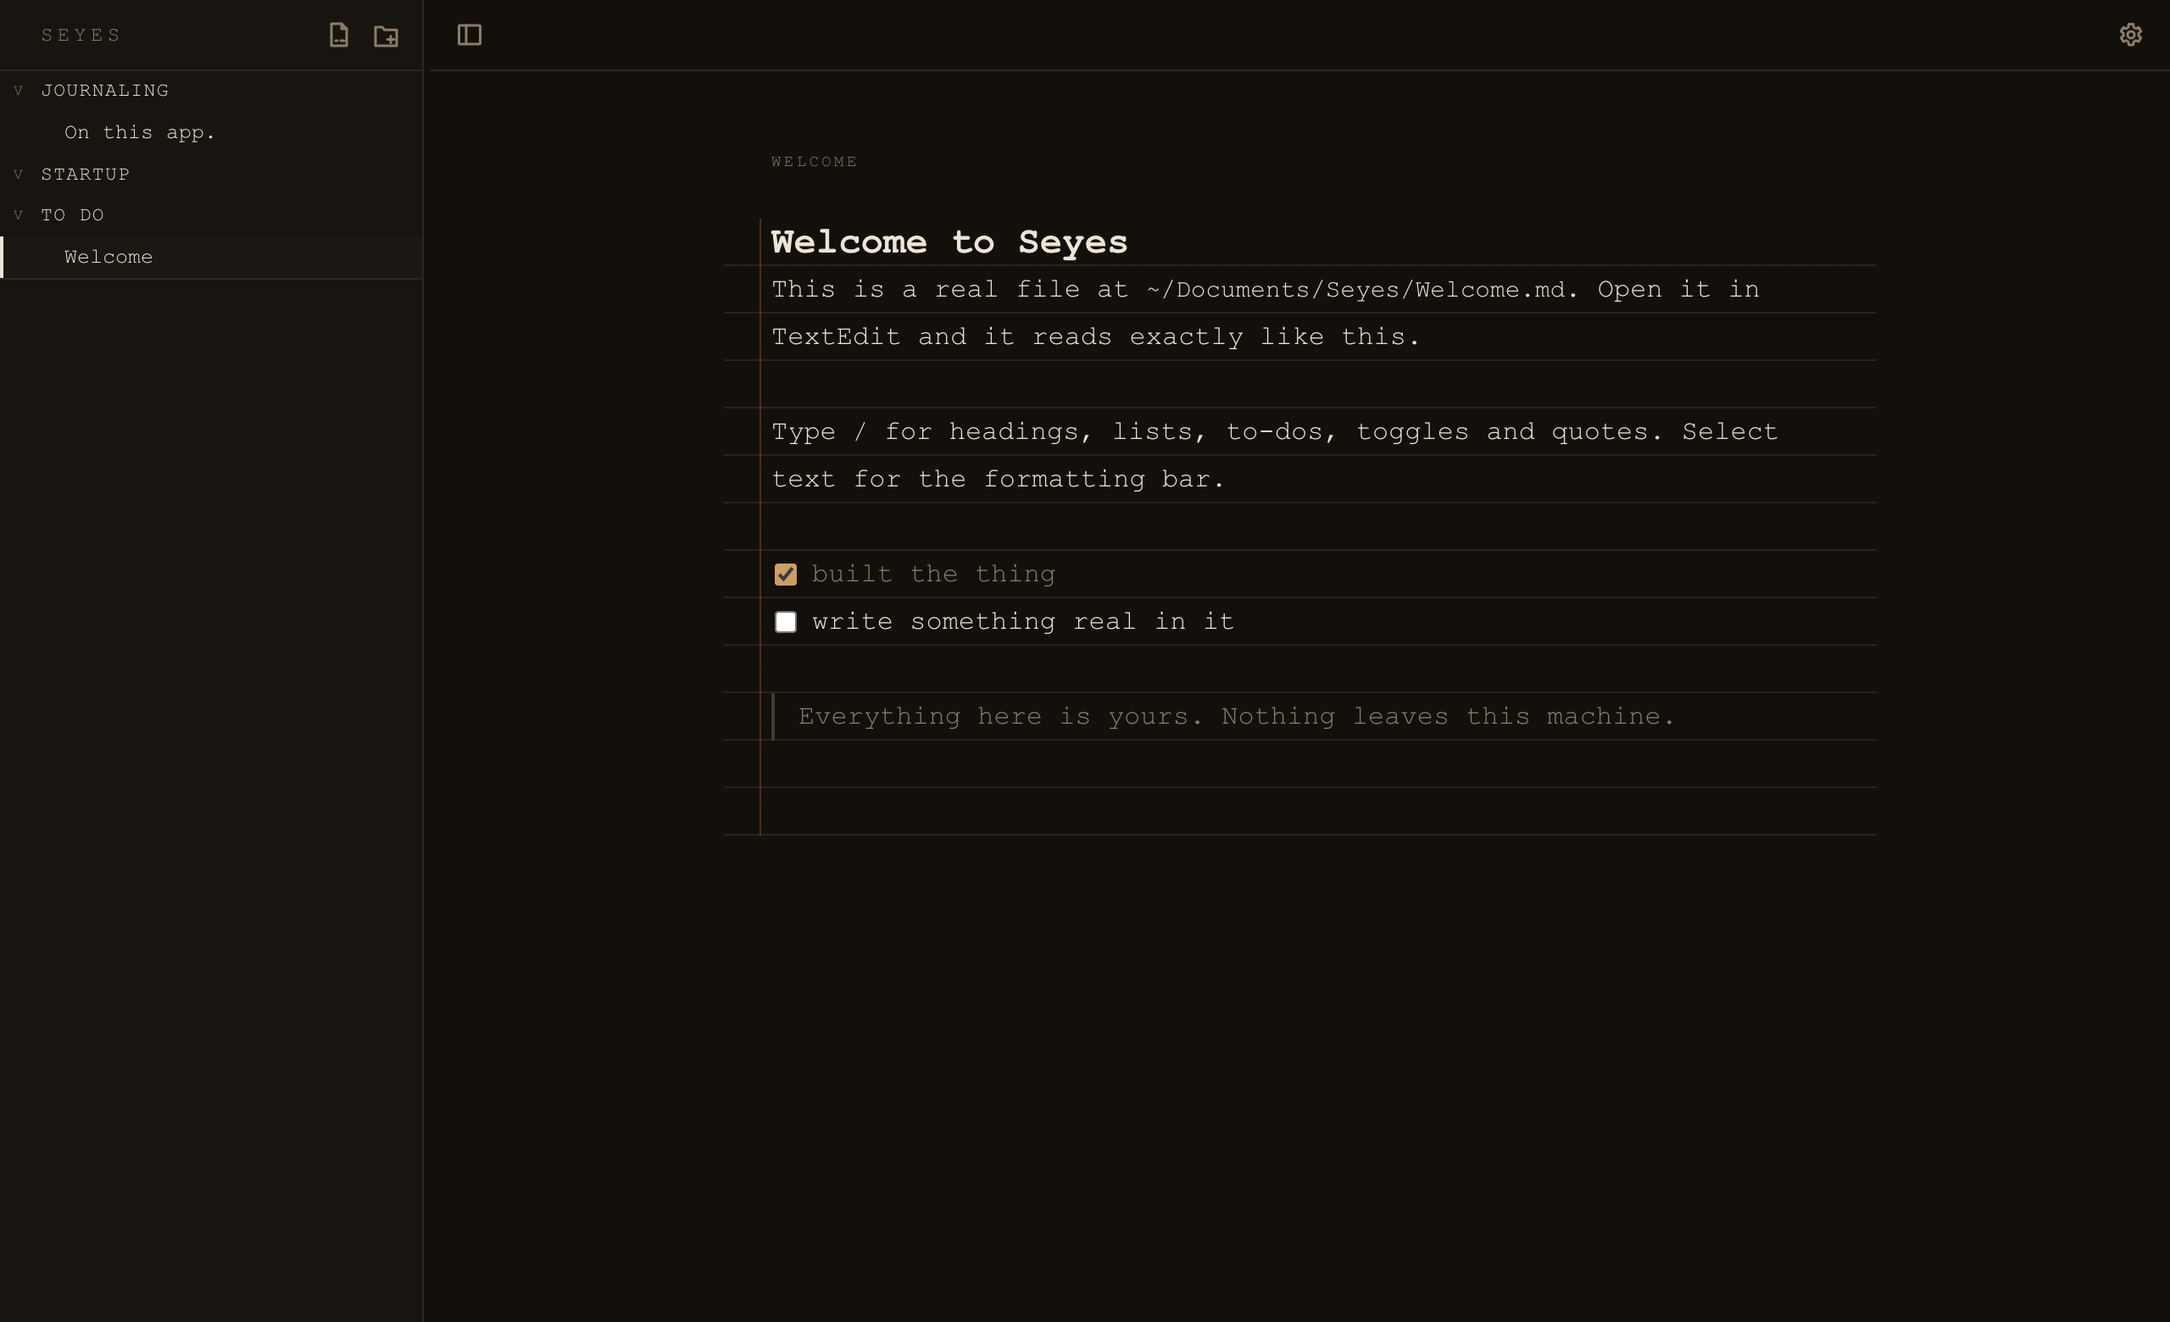
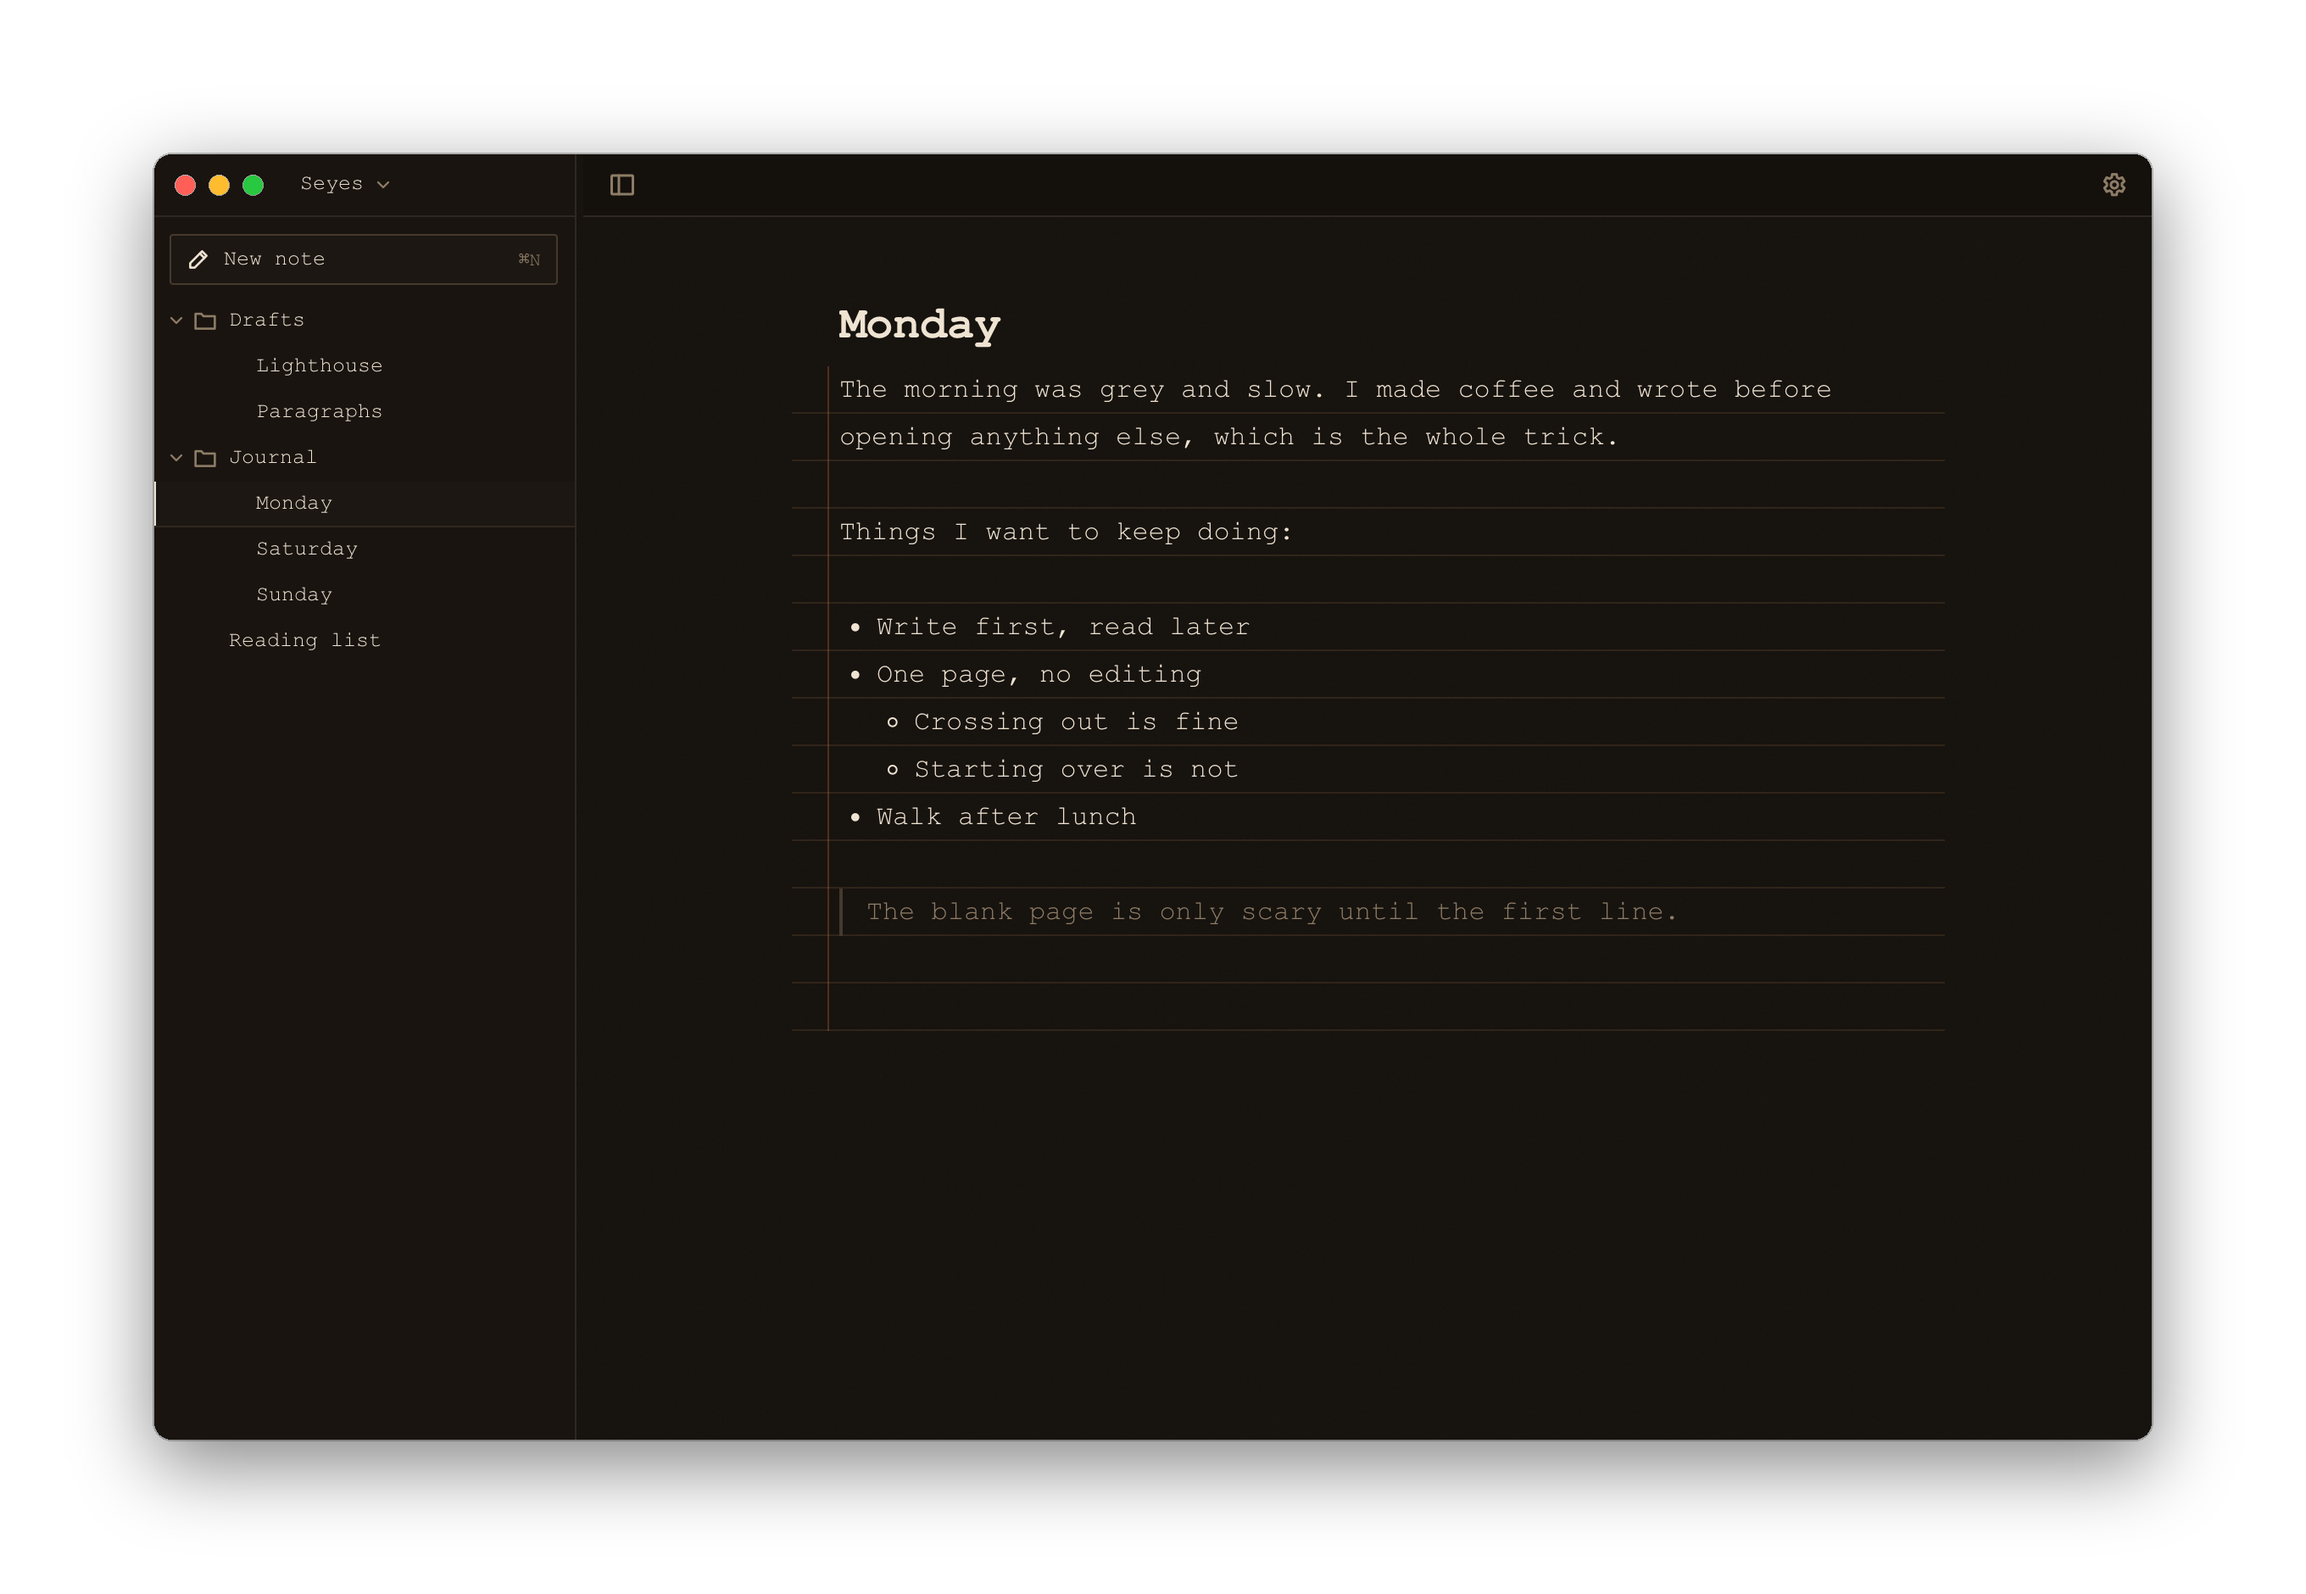
docs: a neater README, and a light-only download page
The README now opens like an app's front page: the icon, one line on what
Seyes is, a download link, and a fresh screenshot that follows GitHub's light
or dark theme. It covers the download and the one-time macOS step, the
shortcuts as a small table, the folder panel, and the per-launch key, and it
drops what went out of date (the ~/Documents default, "builds it yourself").

The download page stays light whatever the system theme.

diff --git a/docs/index.html b/docs/index.html
@@ -3,6 +3,7 @@
 <head>
 <meta charset="utf-8">
 <meta name="viewport" content="width=device-width, initial-scale=1">
+<meta name="color-scheme" content="light">
 <title>Seyes</title>
 <meta name="description" content="A small writing app for the Mac. Your writing stays in plain files on your own computer.">
 <meta property="og:title" content="Seyes">
@@ -18,14 +19,6 @@
     --danger: #a3392c;
     --font: "Courier New", Courier, monospace;
     --system: -apple-system, BlinkMacSystemFont, "Helvetica Neue", sans-serif;
-  }
-  @media (prefers-color-scheme: dark) {
-    :root {
-      --paper: #14100c; --card: #1c1712; --ink: #efe3d2; --muted: #9a8a74;
-      --rule: #2f2720; --rule-strong: #46392d; --accent: #d79a5b;
-      --ruling: rgba(214, 156, 96, 0.08); --margin: rgba(214, 112, 72, 0.32);
-      --danger: #e0826c;
-    }
   }
   * { box-sizing: border-box; }
   html { scroll-behavior: smooth; }
@@ -146,10 +139,7 @@
 </div>
 
 <div class="shot">
-  <picture>
-    <source srcset="seyes-dark.png" media="(prefers-color-scheme: dark)">
-    <img src="seyes-light.png" alt="The Seyes window, with folders of notes on the left and a journal entry open on ruled paper." width="1300" height="880">
-  </picture>
+  <img src="seyes-light.png" alt="The Seyes window, with folders of notes on the left and a journal entry open on ruled paper." width="1360" height="940">
 </div>
 
 <section id="install">

diff --git a/README.md b/README.md
@@ -1,26 +1,28 @@
-# Seyes
+<p align="center">
+  <img src="docs/icon.png" width="88" alt="">
+</p>
 
-A small writing app. Your writing stays in plain files on your own computer.
+<h1 align="center">Seyes</h1>
 
-**[Download Seyes for Mac](https://oscomarch.github.io/seyes/)**. The page walks
-you through the one-time step macOS asks for.
+<p align="center">
+  A small writing app for the Mac.<br>
+  Your writing stays in plain files on your own computer.
+</p>
 
-Or run it from a terminal with Node installed.
+<p align="center">
+  <a href="https://oscomarch.github.io/seyes/"><b>Download for Mac</b></a>
+  &nbsp;·&nbsp;
+  <a href="#run-it-from-a-terminal">Run it from a terminal</a>
+  &nbsp;·&nbsp;
+  <a href="https://github.com/oscomarch/seyes/releases">Releases</a>
+</p>
 
-```
-npx seyes-app
-```
-
-![Seyes](.github/media/seyes.png)
-
-<details>
-<summary>Dark</summary>
-
-![Seyes in dark mode](.github/media/seyes-dark.png)
-
-</details>
-
----
+<p align="center">
+  <picture>
+    <source media="(prefers-color-scheme: dark)" srcset=".github/media/seyes-dark.png">
+    <img src=".github/media/seyes.png" alt="The Seyes window, with folders of notes on the left and a journal entry open on ruled paper.">
+  </picture>
+</p>
 
 ## Why I made it
 
@@ -30,31 +32,63 @@ subscription, or they had so many features that opening one felt like work.
 What bothered me most was that my writing ended up somewhere I didn't control,
 in a format I couldn't read without the app.
 
-So Seyes is just an interface over a folder.
+So Seyes is just a window onto a folder.
 
 Every note is a `.md` file in a normal folder. You can open it in TextEdit,
 search it with grep, back it up or put it in Git. If you stop using Seyes
-tomorrow, your writing is still there. The app is a window onto the folder.
-Your writing doesn't live inside it.
+tomorrow, your writing is still there.
 
 The name comes from Séyès, the ruled paper French kids learn to write on. Turn
 on ruled paper in the settings and you'll see why.
 
-## Using it
+## Getting it
+
+[Download Seyes for Mac](https://oscomarch.github.io/seyes/). It's free, about
+70 MB, and runs on macOS 13 or later, on Apple Silicon and Intel. Open the
+`.dmg` and drag Seyes into Applications.
+
+Seyes isn't signed by Apple yet, so macOS stops it the first time you open it.
+Click **Done** when it says "Seyes" Not Opened. Don't click Move to Trash. Then
+open System Settings, go to Privacy & Security, scroll down and click **Open
+Anyway**. You only do this once. The [download page](https://oscomarch.github.io/seyes/#install)
+shows each step with pictures.
+
+The first time Seyes opens, it asks where your writing should live. It suggests
+`~/Seyes`, a folder that stays on your Mac.
+
+## Writing
 
 You just type. There are no modes and no preview pane.
 
-Press `/` to add a heading, a list, a to-do, a toggle, a quote or some code.
-Select text and a small toolbar shows up, or use `⌘B`, `⌘I` and `⌘U`. If you
-know markdown, typing `# ` or `- ` does what you'd expect. If you don't, you
-never need to.
+| | |
+|---|---|
+| `/` | Add a heading, a list, a to-do, a toggle, a quote or some code |
+| `Tab` | Turn a line into a bullet, then indent it. `Shift Tab` takes it back |
+| `⌘B` `⌘I` `⌘U` | Bold, italic, underline. Or select text for a small toolbar |
+| `⌘N` | New note, in the folder you're in |
+| `⌘K` | Search everything you've written |
+| `⌘\` | Hide the sidebar |
 
-`⌘K` searches everything you've written. `⌘\` hides the sidebar.
+If you know markdown, typing `# ` or `- ` does what you'd expect. If you don't,
+you never need to.
 
-The gear in the top right opens the settings. You can pick a font (Courier,
-Verdana or Georgia), switch between light and dark, and turn the ruled paper
-on or off. It also shows where the open note lives on disk, with a button to
-find it in Finder.
+The gear in the top right holds the settings. You can pick a font (Courier,
+Verdana or Georgia), switch between light and dark, and turn the ruled paper on
+or off. It also shows where the open note lives on disk.
+
+## Your folder
+
+The folder's name sits at the top of the sidebar. Click it to see where your
+writing lives and whether it stays on this Mac or syncs with iCloud. From there
+you can show it in Finder, move the whole folder somewhere else, open a
+different folder, or jump back to one you used before.
+
+Right-click any note or folder to rename it, move it to the Trash, or show it
+in Finder. Drag notes onto folders to file them.
+
+Moving your writing into an iCloud folder asks first. On a Mac with "Desktop &
+Documents Folders" turned on, `~/Documents` is in iCloud Drive, and plenty of
+people don't know that.
 
 ## Your files
 
@@ -80,54 +114,35 @@ exception is when you're typing in it. Then your typing wins.
 
 ## Privacy
 
-There's no account, no database and no analytics. Seyes makes no network
-calls. The server only listens on `127.0.0.1`, so nothing else on your network
-can reach it. Next.js telemetry is turned off.
+There's no account, no database and no analytics. Seyes only goes online when
+you choose Check for Updates in the Seyes menu, and then it asks GitHub for the
+latest version and nothing else.
+
+The app runs a small server on `127.0.0.1`, so nothing else on your network can
+reach it. Each time the app starts, it makes a new secret key that only its own
+window gets. Other programs on your Mac can't use that server to read your
+writing.
 
 I'm not asking you to trust a privacy policy. There's just nowhere for your
 data to go.
 
-## Running it
+## Run it from a terminal
+
+If you have Node installed, you can skip the download and run Seyes in your
+browser.
 
 ```
 npx seyes-app
 ```
 
-The first time, it asks where your writing should go. The default is
-`~/Documents/Seyes`. Then it builds itself once, which takes under a minute,
-and opens in your browser.
-
-A note for Mac users. If iCloud's "Desktop & Documents Folders" option is on,
-then `~/Documents` is in iCloud Drive, and so is that default. That's fine if
-you want your notes synced. If you want them to stay on your machine, pick a
-folder like `~/Seyes` instead. You can change it later in the settings.
-
-If you use it every day, install it once. `npx` can download and rebuild it
-again whenever you type the command a little differently.
+The first time, it asks where your writing should go, then builds itself once,
+which takes under a minute. If you use it every day, install it instead, since
+`npx` can rebuild it whenever you type the command a little differently.
 
 ```
 npm i -g seyes-app
 seyes
 ```
-
-## Get it as a Mac app
-
-This gives you an icon in your Dock. No terminal, and ⌘Q quits it.
-
-```
-npm i -g seyes-app
-bash "$(npm root -g)/seyes-app/mac/build.sh"
-```
-
-That puts `Seyes.app` in `/Applications`. Open it from there, or press ⌘Space
-and type "seyes". You'll need Xcode's command line tools
-(`xcode-select --install`). Building takes a few seconds.
-
-The app doesn't carry its own copy of Seyes. It starts the `seyes` command,
-shows it in a window, and stops it when you quit. To upgrade, run
-`npm i -g seyes-app` again. You don't need to rebuild the app.
-
-To move the window, drag it by the top bar. Anywhere that isn't a button works.
 
 ## Working on Seyes
 
@@ -138,10 +153,15 @@ npm install
 npm run dev
 ```
 
-`npm test` runs the tests. The two worth knowing about are the markdown
+`npm test` runs the tests. The ones worth knowing about are the markdown
 round-trip tests in `tests/markdown.test.ts` and the path tests in
-`tests/paths.test.ts`. The path tests make sure no request can read or write
-outside your writing folder.
+`tests/paths.test.ts`, which make sure no request can read or write outside
+your writing folder.
+
+`mac/release.sh` builds the downloadable app into `dist/`. It fetches the
+official Node runtime, checks it against the checksums nodejs.org publishes,
+builds the server ahead of time, and wraps it all in `Seyes.app` inside a
+`.dmg`.
 
 ## How it's built
 
@@ -150,19 +170,24 @@ src/lib/fs        reading and writing files, safely
 src/lib/editor    the editor, and markdown in and out of it
 src/app/api       a thin HTTP layer over the above
 src/components    sidebar, editor, desk, settings
+src/proxy.ts      the per-launch key that keeps other programs out
 bin/seyes.mjs     the launcher you get from npx
-mac/              the Mac app, and the script that builds it
+mac/              the native Mac window, and the scripts that build it
+docs/             the download page
 ```
 
 The file code doesn't know anything about markdown. The editor doesn't know
 anything about files. Every path the server touches goes through one function,
 and that function won't leave your folder.
 
+The Mac app is a small Swift window around a web view. It starts the server it
+carries inside itself, shows it, and stops it when you quit.
+
 ## Limitations
 
 It's early, and some things are rough. There are no images, tables or colored
-text yet. I've mostly used it on macOS. The Mac app isn't signed, so you build
-it on your own machine instead of downloading it.
+text yet. It only runs on the Mac. The app isn't signed by Apple, so macOS asks
+you to confirm it once, and again for each new version.
 
 ## License
 
